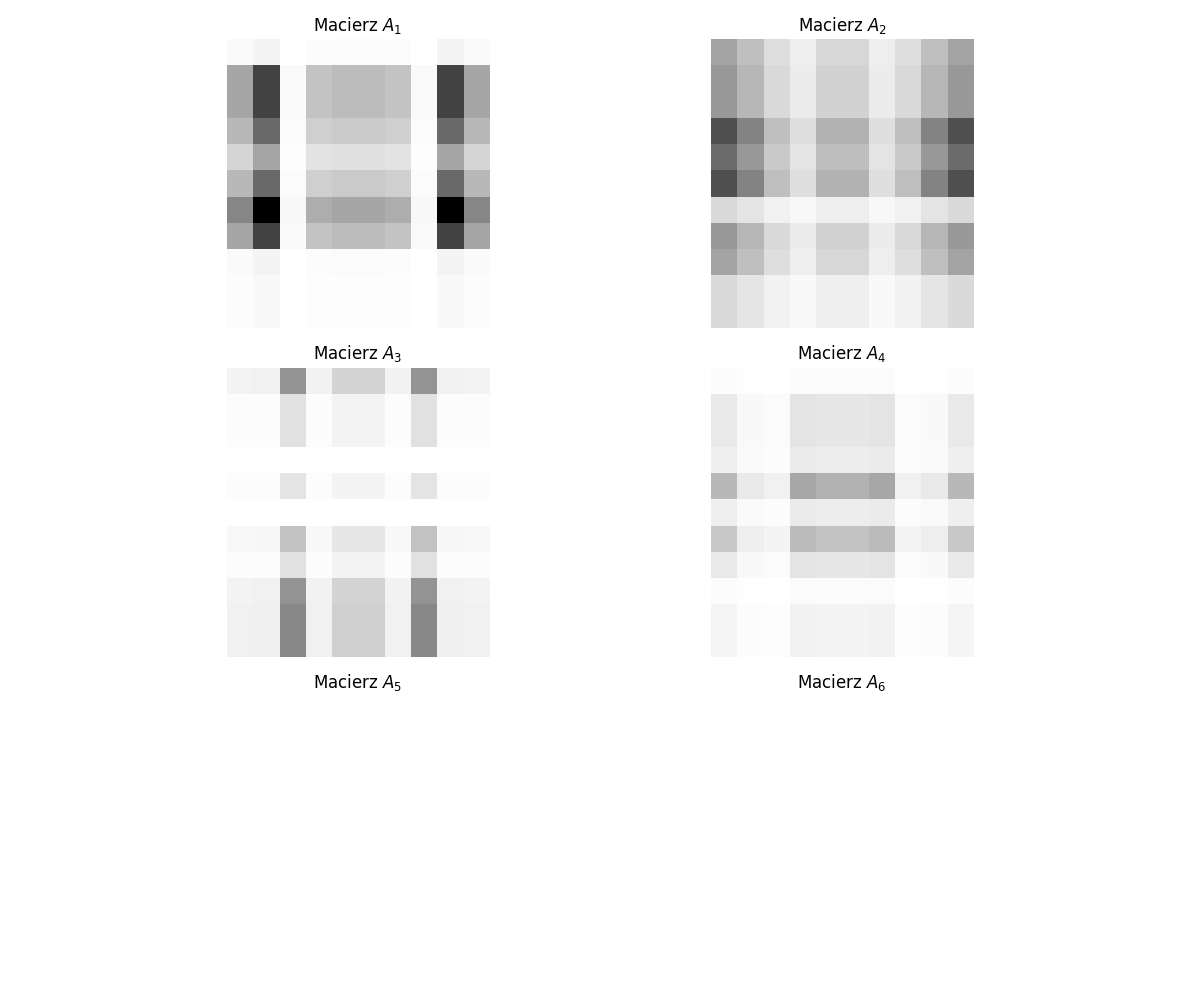
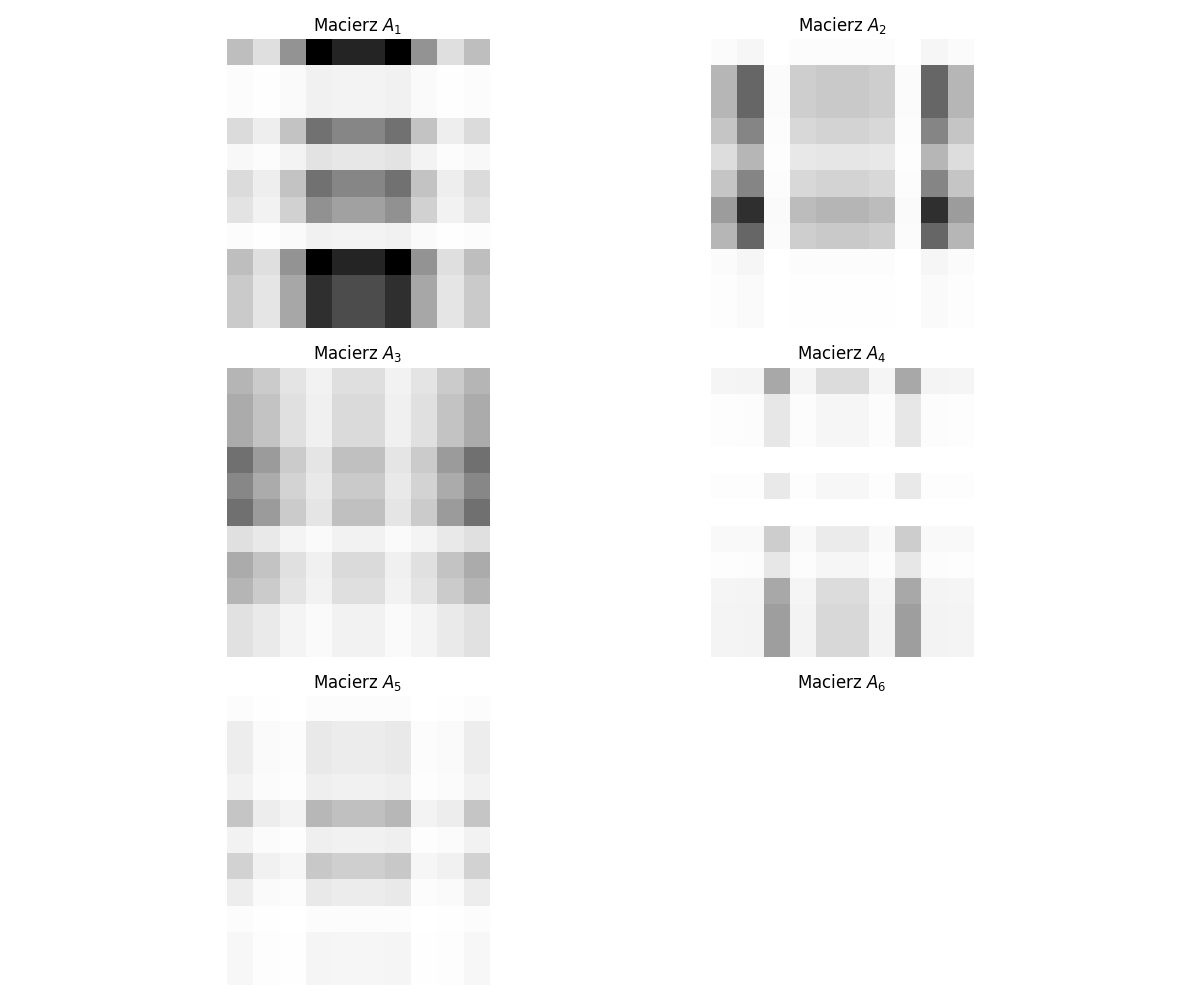
nowe

diff --git a/warstwy.py b/warstwy.py
@@ -53,24 +53,20 @@ def main():
     # Stworzenie macierzy diagonalnej S
     S = np.diag(s)
 
-    A1 = stworz_Ai(U, S, Vt, 1)
-    A2 = stworz_Ai(U, S, Vt, 2)
-    A3 = stworz_Ai(U, S, Vt, 3)
-    A4 = stworz_Ai(U, S, Vt, 4)
-    A5 = stworz_Ai(U, S, Vt, 5)
-    A6 = stworz_Ai(U, S, Vt, 6)
-    A7 = stworz_Ai(U, S, Vt, 7)
-    A8 = stworz_Ai(U, S, Vt, 8)
-    A9 = stworz_Ai(U, S, Vt, 9)
-    lista_macierzy = [A1, A2, A3, A4, A5, A6, A7, A8, A9]
-    max = stworz_skale(lista_macierzy)
+    A1 = stworz_Ai(U, S, Vt, 0)
+    A2 = stworz_Ai(U, S, Vt, 1)
+    A3 = stworz_Ai(U, S, Vt, 2)
+    A4 = stworz_Ai(U, S, Vt, 3)
+    A5 = stworz_Ai(U, S, Vt, 4)
+    A6 = stworz_Ai(U, S, Vt, 5)
+    A7 = stworz_Ai(U, S, Vt, 6)
+    A8 = stworz_Ai(U, S, Vt, 7)
+    A9 = stworz_Ai(U, S, Vt, 8)
+    A10 = stworz_Ai(U, S, Vt, 9)
 
-    A11 = np.array(A1)
-    A22 = np.array(A2)
-    A33 = np.array(A3)
-    A44 = np.array(A4)
-    A55 = np.array(A5)
-    B = A11 + A22 + A33 + A44 + A55
+
+    lista_macierzy = [A1, A2, A3, A4, A5, A6, A7, A8, A9, A10]
+    max = stworz_skale(lista_macierzy)
 
     fig, axes = plt.subplots(3, 2, figsize=(12, 10))
 

diff --git a/kot_svd_kolor_RGB.py b/kot_svd_kolor_RGB.py
@@ -4,12 +4,12 @@ import matplotlib.pyplot as plt
 
 
 def rysuj_macierz(ax, macierz, tytul, vmin, vmax):
-    #zmiana cmap
     ax.imshow(macierz, interpolation='nearest', vmin=vmin, vmax=vmax)
     ax.set_title(tytul)
     ax.axis('off')
 
 def stworz_Ai(U, S, Vt, i):
+    # jeśli macierz nie je
     if i >= len(U):
         Ai = np.zeros_like(U)
         return Ai

diff --git a/SVD.py b/SVD.py
@@ -26,7 +26,6 @@ def main():
     U, s, Vt = np.linalg.svd(A)
     # Stworzenie macierzy diagonalnej S
     S = np.diag(s)
-
     # Tworzenie rysunków na jednej figurze
     fig, axes = plt.subplots(2, 2, figsize=(10, 10))
 
